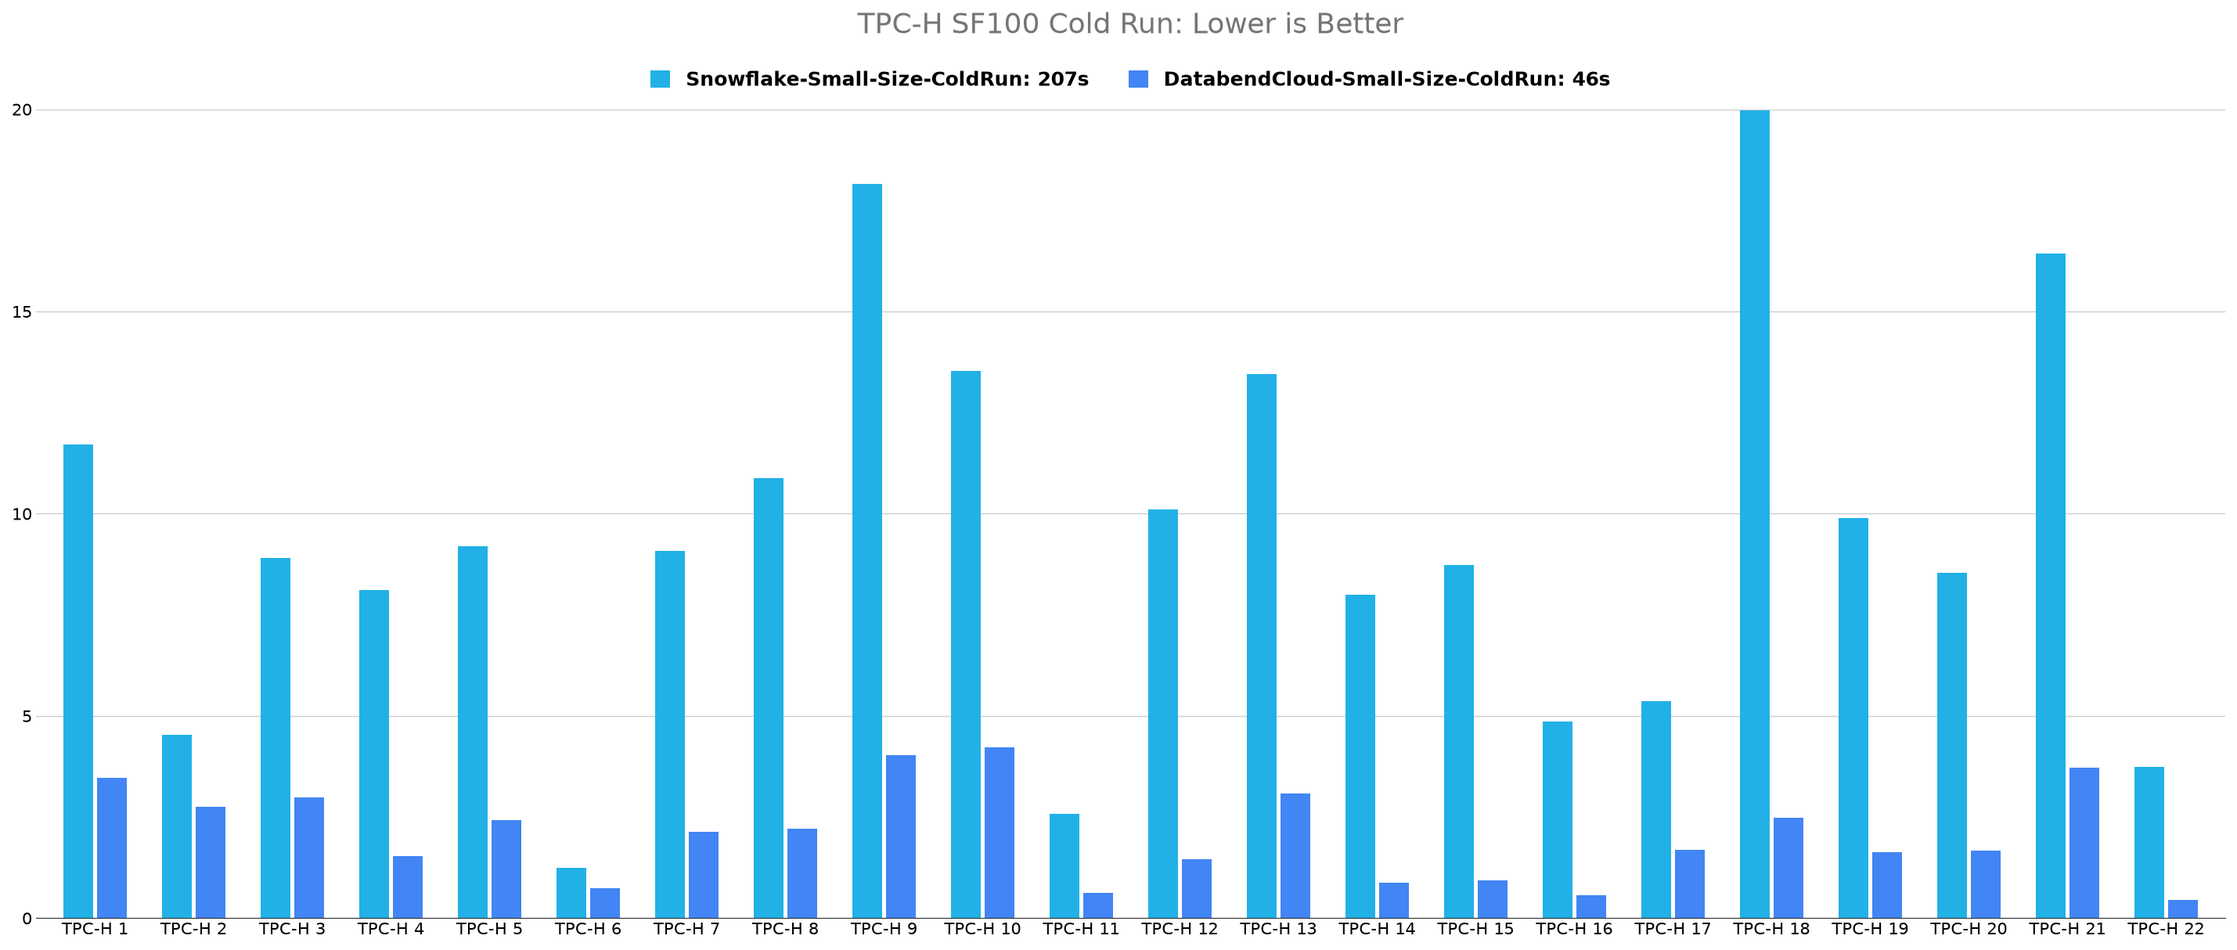
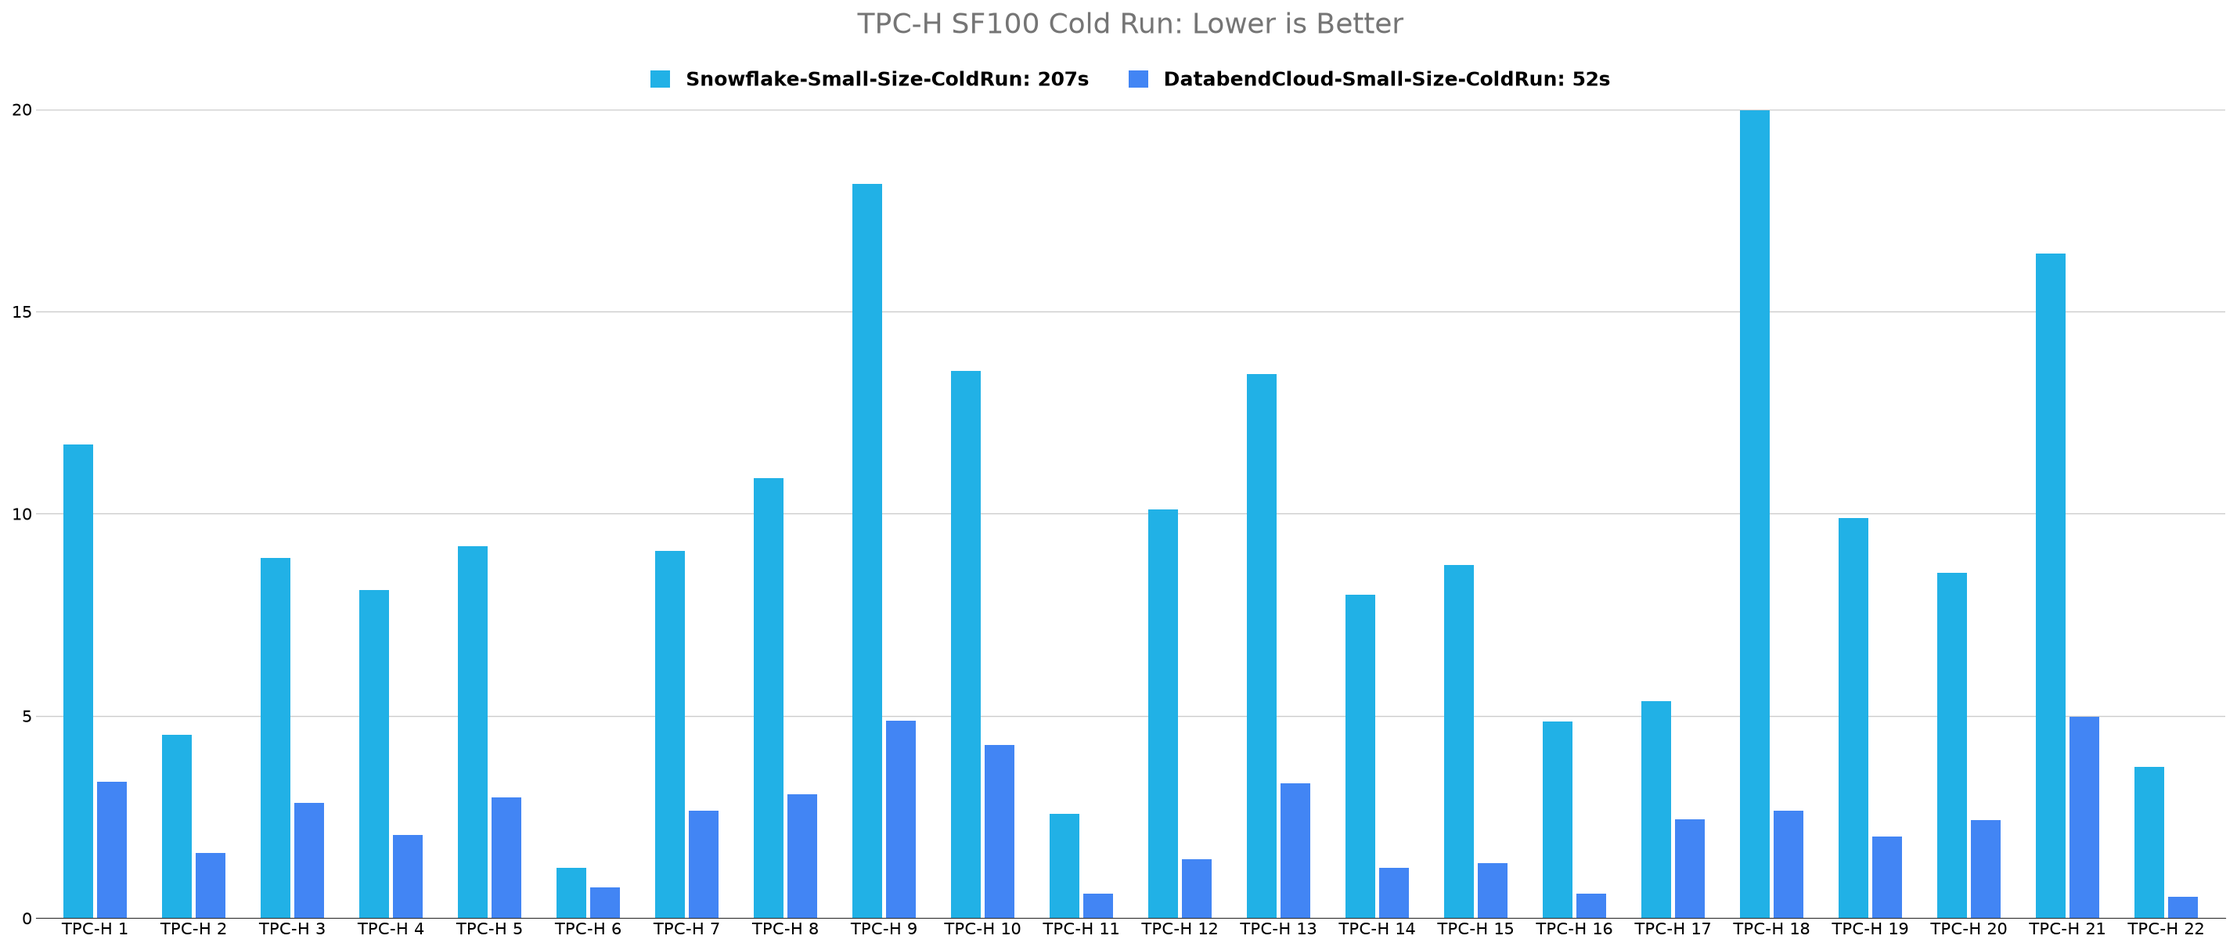
docs: use TPC-H SF100 results from data loaded with setup.sql

diff --git a/docs/en/guides/80-benchmark/10-tpch.md b/docs/en/guides/80-benchmark/10-tpch.md
@@ -6,18 +6,18 @@ benchmark_card:
   title: Databend vs. Snowflake
   views:
     - tab: Time
-      headline: 4.53×
+      headline: 3.97×
       summary: faster cold run
       context: 22 queries · 100 GB · Small
       unit: s
       groups:
         - label: Cold run
           rows:
-            - { label: Databend, value: 46, highlight: true }
+            - { label: Databend, value: 52, highlight: true }
             - { label: Snowflake, value: 207 }
         - label: Hot run
           rows:
-            - { label: Databend, value: 34, highlight: true }
+            - { label: Databend, value: 41, highlight: true }
             - { label: Snowflake, value: 138 }
       note: Lower is better
     - tab: Cost
@@ -94,62 +94,62 @@ And remember, **don't just take our word for it — you're encouraged to run and
 
 ![Alt text](@site/static/img/documents/tpch2.png)
 
-| Query          | Snowflake(Total 207s, Cost $0.23) | Databend Cloud(Total 46s, Cost $0.03) |
+| Query          | Snowflake(Total 207s, Cost $0.23) | Databend Cloud(Total 52s, Cost $0.03) |
 | -------------- | --------------------------------- | ------------------------------------- |
-| TPC-H 1        | 11.703                            | 3.467                                 |
-| TPC-H 2        | 4.524                             | 2.745                                 |
-| TPC-H 3        | 8.908                             | 2.982                                 |
-| TPC-H 4        | 8.108                             | 1.530                                 |
-| TPC-H 5        | 9.202                             | 2.421                                 |
-| TPC-H 6        | 1.237                             | 0.745                                 |
-| TPC-H 7        | 9.082                             | 2.130                                 |
-| TPC-H 8        | 10.886                            | 2.213                                 |
-| TPC-H 9        | 18.152                            | 4.032                                 |
-| TPC-H 10       | 13.525                            | 4.219                                 |
-| TPC-H 11       | 2.582                             | 0.627                                 |
-| TPC-H 12       | 10.099                            | 1.460                                 |
-| TPC-H 13       | 13.458                            | 3.085                                 |
-| TPC-H 14       | 8.001                             | 0.886                                 |
-| TPC-H 15       | 8.737                             | 0.937                                 |
-| TPC-H 16       | 4.864                             | 0.561                                 |
-| TPC-H 17       | 5.363                             | 1.686                                 |
-| TPC-H 18       | 19.971                            | 2.492                                 |
-| TPC-H 19       | 9.893                             | 1.627                                 |
-| TPC-H 20       | 8.538                             | 1.673                                 |
-| TPC-H 21       | 16.439                            | 3.718                                 |
-| TPC-H 22       | 3.744                             | 0.446                                 |
-| **Total Time** | **207s**                          | **46s**                               |
+| TPC-H 1        | 11.703                            | 3.368                                 |
+| TPC-H 2        | 4.524                             | 1.621                                 |
+| TPC-H 3        | 8.908                             | 2.847                                 |
+| TPC-H 4        | 8.108                             | 2.062                                 |
+| TPC-H 5        | 9.202                             | 2.989                                 |
+| TPC-H 6        | 1.237                             | 0.760                                 |
+| TPC-H 7        | 9.082                             | 2.658                                 |
+| TPC-H 8        | 10.886                            | 3.065                                 |
+| TPC-H 9        | 18.152                            | 4.882                                 |
+| TPC-H 10       | 13.525                            | 4.278                                 |
+| TPC-H 11       | 2.582                             | 0.611                                 |
+| TPC-H 12       | 10.099                            | 1.449                                 |
+| TPC-H 13       | 13.458                            | 3.342                                 |
+| TPC-H 14       | 8.001                             | 1.244                                 |
+| TPC-H 15       | 8.737                             | 1.356                                 |
+| TPC-H 16       | 4.864                             | 0.604                                 |
+| TPC-H 17       | 5.363                             | 2.446                                 |
+| TPC-H 18       | 19.971                            | 2.660                                 |
+| TPC-H 19       | 9.893                             | 2.014                                 |
+| TPC-H 20       | 8.538                             | 2.417                                 |
+| TPC-H 21       | 16.439                            | 4.977                                 |
+| TPC-H 22       | 3.744                             | 0.536                                 |
+| **Total Time** | **207s**                          | **52s**                               |
 | **Total Cost** | **$0.23**                         | **$0.03**                             |
 
 ### Query Benchmark: Hot Run
 
 ![Alt text](@site/static/img/documents/tpch3.png)
 
-| Query          | Snowflake (Total 138s, Cost $0.15) | Databend Cloud (Total 34s, Cost $0.02) |
+| Query          | Snowflake (Total 138s, Cost $0.15) | Databend Cloud (Total 41s, Cost $0.02) |
 | -------------- | ---------------------------------- | -------------------------------------- |
-| TPC-H 1        | 8.934                              | 2.154                                  |
-| TPC-H 2        | 3.018                              | 0.442                                  |
-| TPC-H 3        | 6.089                              | 1.491                                  |
-| TPC-H 4        | 4.914                              | 0.816                                  |
-| TPC-H 5        | 5.800                              | 1.854                                  |
-| TPC-H 6        | 0.891                              | 0.722                                  |
-| TPC-H 7        | 5.381                              | 2.070                                  |
-| TPC-H 8        | 5.724                              | 1.753                                  |
-| TPC-H 9        | 10.283                             | 3.840                                  |
-| TPC-H 10       | 10.368                             | 2.294                                  |
-| TPC-H 11       | 1.165                              | 0.444                                  |
-| TPC-H 12       | 7.052                              | 1.110                                  |
-| TPC-H 13       | 12.829                             | 2.527                                  |
-| TPC-H 14       | 3.288                              | 0.874                                  |
-| TPC-H 15       | 3.475                              | 0.936                                  |
-| TPC-H 16       | 4.094                              | 0.409                                  |
-| TPC-H 17       | 4.203                              | 1.514                                  |
-| TPC-H 18       | 18.583                             | 2.284                                  |
-| TPC-H 19       | 3.888                              | 1.311                                  |
-| TPC-H 20       | 6.379                              | 1.662                                  |
-| TPC-H 21       | 10.287                             | 3.134                                  |
-| TPC-H 22       | 1.573                              | 0.409                                  |
-| **Total Time** | **138s**                           | **34s**                                |
+| TPC-H 1        | 8.934                              | 2.240                                  |
+| TPC-H 2        | 3.018                              | 0.416                                  |
+| TPC-H 3        | 6.089                              | 1.678                                  |
+| TPC-H 4        | 4.914                              | 0.878                                  |
+| TPC-H 5        | 5.800                              | 2.427                                  |
+| TPC-H 6        | 0.891                              | 0.734                                  |
+| TPC-H 7        | 5.381                              | 2.587                                  |
+| TPC-H 8        | 5.724                              | 2.555                                  |
+| TPC-H 9        | 10.283                             | 4.556                                  |
+| TPC-H 10       | 10.368                             | 2.445                                  |
+| TPC-H 11       | 1.165                              | 0.411                                  |
+| TPC-H 12       | 7.052                              | 1.152                                  |
+| TPC-H 13       | 12.829                             | 2.735                                  |
+| TPC-H 14       | 3.288                              | 1.197                                  |
+| TPC-H 15       | 3.475                              | 1.339                                  |
+| TPC-H 16       | 4.094                              | 0.455                                  |
+| TPC-H 17       | 4.203                              | 2.179                                  |
+| TPC-H 18       | 18.583                             | 2.477                                  |
+| TPC-H 19       | 3.888                              | 1.631                                  |
+| TPC-H 20       | 6.379                              | 2.394                                  |
+| TPC-H 21       | 10.287                             | 4.442                                  |
+| TPC-H 22       | 1.573                              | 0.504                                  |
+| **Total Time** | **138s**                           | **41s**                                |
 | **Total Cost** | **$0.15**                          | **$0.02**                              |
 
 ## Reproduce the Benchmark

diff --git a/docs/cn/guides/80-benchmark/10-tpch.md b/docs/cn/guides/80-benchmark/10-tpch.md
@@ -6,18 +6,18 @@ benchmark_card:
   title: Databend vs. Snowflake
   views:
     - tab: 耗时
-      headline: 4.53×
+      headline: 3.97×
       summary: 冷启动查询速度
       context: 22 条查询 · 100 GB · Small 规格
       unit: 秒
       groups:
         - label: 冷启动
           rows:
-            - { label: Databend, value: 46, highlight: true }
+            - { label: Databend, value: 52, highlight: true }
             - { label: Snowflake, value: 207 }
         - label: 热启动
           rows:
-            - { label: Databend, value: 34, highlight: true }
+            - { label: Databend, value: 41, highlight: true }
             - { label: Snowflake, value: 138 }
       note: 耗时越短越好
     - tab: 成本
@@ -94,62 +94,62 @@ TPC Benchmark™ 和 TPC-H™ 是事务处理性能委员会 ([TPC](http://www.t
 
 ![Alt text](@site/static/img/documents/tpch2.png)
 
-| Query          | Snowflake(Total 207s, Cost $0.23) | Databend Cloud(Total 46s, Cost $0.03) |
+| Query          | Snowflake(Total 207s, Cost $0.23) | Databend Cloud(Total 52s, Cost $0.03) |
 | -------------- | --------------------------------- | ------------------------------------- |
-| TPC-H 1        | 11.703                            | 3.467                                 |
-| TPC-H 2        | 4.524                             | 2.745                                 |
-| TPC-H 3        | 8.908                             | 2.982                                 |
-| TPC-H 4        | 8.108                             | 1.530                                 |
-| TPC-H 5        | 9.202                             | 2.421                                 |
-| TPC-H 6        | 1.237                             | 0.745                                 |
-| TPC-H 7        | 9.082                             | 2.130                                 |
-| TPC-H 8        | 10.886                            | 2.213                                 |
-| TPC-H 9        | 18.152                            | 4.032                                 |
-| TPC-H 10       | 13.525                            | 4.219                                 |
-| TPC-H 11       | 2.582                             | 0.627                                 |
-| TPC-H 12       | 10.099                            | 1.460                                 |
-| TPC-H 13       | 13.458                            | 3.085                                 |
-| TPC-H 14       | 8.001                             | 0.886                                 |
-| TPC-H 15       | 8.737                             | 0.937                                 |
-| TPC-H 16       | 4.864                             | 0.561                                 |
-| TPC-H 17       | 5.363                             | 1.686                                 |
-| TPC-H 18       | 19.971                            | 2.492                                 |
-| TPC-H 19       | 9.893                             | 1.627                                 |
-| TPC-H 20       | 8.538                             | 1.673                                 |
-| TPC-H 21       | 16.439                            | 3.718                                 |
-| TPC-H 22       | 3.744                             | 0.446                                 |
-| **Total Time** | **207s**                          | **46s**                               |
+| TPC-H 1        | 11.703                            | 3.368                                 |
+| TPC-H 2        | 4.524                             | 1.621                                 |
+| TPC-H 3        | 8.908                             | 2.847                                 |
+| TPC-H 4        | 8.108                             | 2.062                                 |
+| TPC-H 5        | 9.202                             | 2.989                                 |
+| TPC-H 6        | 1.237                             | 0.760                                 |
+| TPC-H 7        | 9.082                             | 2.658                                 |
+| TPC-H 8        | 10.886                            | 3.065                                 |
+| TPC-H 9        | 18.152                            | 4.882                                 |
+| TPC-H 10       | 13.525                            | 4.278                                 |
+| TPC-H 11       | 2.582                             | 0.611                                 |
+| TPC-H 12       | 10.099                            | 1.449                                 |
+| TPC-H 13       | 13.458                            | 3.342                                 |
+| TPC-H 14       | 8.001                             | 1.244                                 |
+| TPC-H 15       | 8.737                             | 1.356                                 |
+| TPC-H 16       | 4.864                             | 0.604                                 |
+| TPC-H 17       | 5.363                             | 2.446                                 |
+| TPC-H 18       | 19.971                            | 2.660                                 |
+| TPC-H 19       | 9.893                             | 2.014                                 |
+| TPC-H 20       | 8.538                             | 2.417                                 |
+| TPC-H 21       | 16.439                            | 4.977                                 |
+| TPC-H 22       | 3.744                             | 0.536                                 |
+| **Total Time** | **207s**                          | **52s**                               |
 | **Total Cost** | **$0.23**                         | **$0.03**                             |
 
 ### 查询基准测试：热启动
 
 ![Alt text](@site/static/img/documents/tpch3.png)
 
-| 查询       | Snowflake (总计 138s, 成本 $0.15) | Databend Cloud (总计 34s, 成本 $0.02) |
+| 查询       | Snowflake (总计 138s, 成本 $0.15) | Databend Cloud (总计 41s, 成本 $0.02) |
 | ---------- | --------------------------------- | ------------------------------------- |
-| TPC-H 1    | 8.934                             | 2.154                                 |
-| TPC-H 2    | 3.018                             | 0.442                                 |
-| TPC-H 3    | 6.089                             | 1.491                                 |
-| TPC-H 4    | 4.914                             | 0.816                                 |
-| TPC-H 5    | 5.800                             | 1.854                                 |
-| TPC-H 6    | 0.891                             | 0.722                                 |
-| TPC-H 7    | 5.381                             | 2.070                                 |
-| TPC-H 8    | 5.724                             | 1.753                                 |
-| TPC-H 9    | 10.283                            | 3.840                                 |
-| TPC-H 10   | 10.368                            | 2.294                                 |
-| TPC-H 11   | 1.165                             | 0.444                                 |
-| TPC-H 12   | 7.052                             | 1.110                                 |
-| TPC-H 13   | 12.829                            | 2.527                                 |
-| TPC-H 14   | 3.288                             | 0.874                                 |
-| TPC-H 15   | 3.475                             | 0.936                                 |
-| TPC-H 16   | 4.094                             | 0.409                                 |
-| TPC-H 17   | 4.203                             | 1.514                                 |
-| TPC-H 18   | 18.583                            | 2.284                                 |
-| TPC-H 19   | 3.888                             | 1.311                                 |
-| TPC-H 20   | 6.379                             | 1.662                                 |
-| TPC-H 21   | 10.287                            | 3.134                                 |
-| TPC-H 22   | 1.573                             | 0.409                                 |
-| **总时间** | **138s**                          | **34s**                               |
+| TPC-H 1    | 8.934                             | 2.240                                 |
+| TPC-H 2    | 3.018                             | 0.416                                 |
+| TPC-H 3    | 6.089                             | 1.678                                 |
+| TPC-H 4    | 4.914                             | 0.878                                 |
+| TPC-H 5    | 5.800                             | 2.427                                 |
+| TPC-H 6    | 0.891                             | 0.734                                 |
+| TPC-H 7    | 5.381                             | 2.587                                 |
+| TPC-H 8    | 5.724                             | 2.555                                 |
+| TPC-H 9    | 10.283                            | 4.556                                 |
+| TPC-H 10   | 10.368                            | 2.445                                 |
+| TPC-H 11   | 1.165                             | 0.411                                 |
+| TPC-H 12   | 7.052                             | 1.152                                 |
+| TPC-H 13   | 12.829                            | 2.735                                 |
+| TPC-H 14   | 3.288                             | 1.197                                 |
+| TPC-H 15   | 3.475                             | 1.339                                 |
+| TPC-H 16   | 4.094                             | 0.455                                 |
+| TPC-H 17   | 4.203                             | 2.179                                 |
+| TPC-H 18   | 18.583                            | 2.477                                 |
+| TPC-H 19   | 3.888                             | 1.631                                 |
+| TPC-H 20   | 6.379                             | 2.394                                 |
+| TPC-H 21   | 10.287                            | 4.442                                 |
+| TPC-H 22   | 1.573                             | 0.504                                 |
+| **总时间** | **138s**                          | **41s**                               |
 | **总成本** | **$0.15**                         | **$0.02**                             |
 
 ## 重现基准测试
